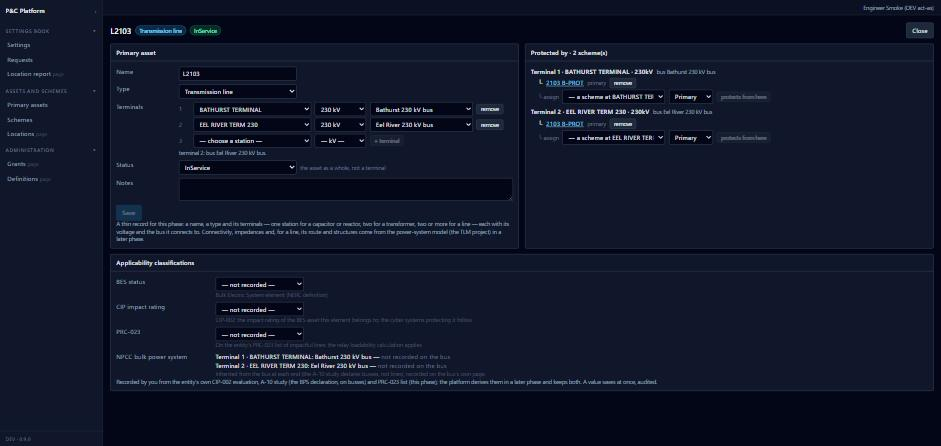
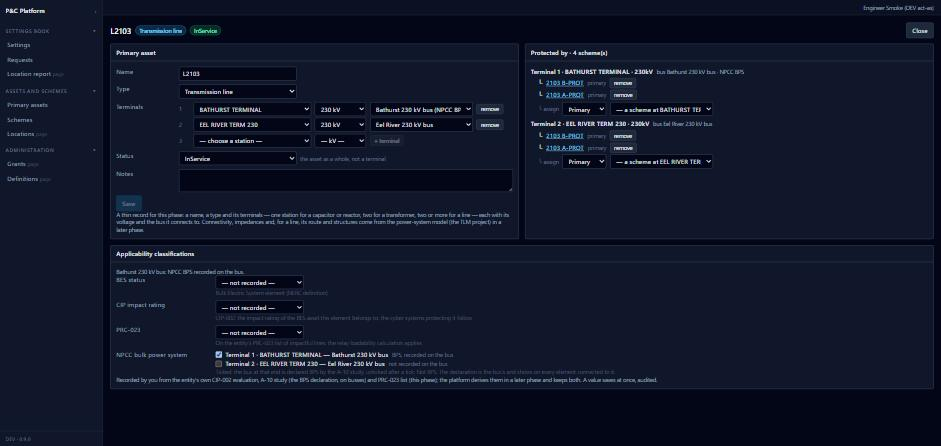
#170: assigning a scheme to a terminal end saves on selection (like every other drop-down); NPCC BPS is a check box per terminal that records on the bus at that end
Owner, 2026-09-16: a second scheme chosen under a terminal did not appear to take — the row needed a button the other
controls do not; gone. The NPCC row of the classification panel is a check box per terminal, ticked = the bus at that end
is declared BPS (recorded on the bus, shown on every element connected to it).

Claude-Session: https://claude.ai/code/session_013TsNC7gxoDauT1p8dURK81

diff --git a/src/PnC.Web/src/screens/PrimaryAssetScreen.tsx b/src/PnC.Web/src/screens/PrimaryAssetScreen.tsx
@@ -40,6 +40,12 @@ export function ClassificationPanel({ subjectKind, subjectEntityId, editable, as
   const [msg, setMsg] = useState<{ text: string; bad?: boolean } | null>(null)
   const current = (code: string) => rows.find((r) => s(r.ClassificationKindCode) === code)
   const kinds = CLASSIFICATION_KINDS.filter((k) => !k.busOnly || assetTypeCode === 'Bus' || !assetTypeCode)
+  const recordOnBus = async (busId: string, busName: string, bps: boolean) => {
+    try {
+      await proc('asset', 'RecordClassification', { SubjectKind: 'Asset', SubjectEntityId: busId, ClassificationKindCode: 'NpccBulkPowerSystem', ClassificationValue: bps ? 'BPS' : 'Not BPS' })
+      setMsg({ text: `${busName}: NPCC ${bps ? 'BPS' : 'Not BPS'} recorded on the bus.` }); qc.invalidateQueries({ queryKey: ['view', 'asset', 'vAssetTerminalDetail'] }); qc.invalidateQueries({ queryKey: ['view', 'asset', 'vClassification'] }); qc.invalidateQueries({ queryKey: ['view', 'asset', 'vPrimaryAsset'] })
+    } catch (e) { setMsg({ text: e instanceof ApiError ? e.message : String(e), bad: true }) }
+  }
   const record = async (code: string, value: string) => {
     try {
       await proc('asset', 'RecordClassification', { SubjectKind: subjectKind, SubjectEntityId: subjectEntityId, ClassificationKindCode: code, ClassificationValue: value || null })
@@ -69,8 +75,14 @@ export function ClassificationPanel({ subjectKind, subjectEntityId, editable, as
           <div className="grid grid-cols-[13rem_1fr] items-start gap-2">
             <dt className="text-slate-400" title="The A-10 test is a bus test: the BPS declaration is the bus's; this element inherits it at each terminal">NPCC bulk power system</dt>
             <dd className="min-w-0 text-slate-200">
-              {(terminalsQ.data ?? []).length ? (terminalsQ.data ?? []).map((t) => <div key={s(t.TerminalEntityId)}>Terminal {s(t.TerminalNo)} · {s(t.StationName)}: {t.BusAssetEntityId ? <>{s(t.BusName)} — <span className={t.BusNpcc ? 'text-slate-100' : 'text-slate-500'}>{s(t.BusNpcc) || 'not recorded on the bus'}</span></> : <span className="text-slate-500">no bus linked at this terminal</span>}</div>) : <span className="text-slate-500">no terminals yet</span>}
-              <div className="text-xs text-slate-600">Inherited from the bus at each end (the A-10 study declares busses, not lines); recorded on the bus's own page.</div>
+              {/* a check box per terminal (the owner, 2026-09-16): ticked = the bus at that end is declared BPS; it records on the bus itself */}
+              {(terminalsQ.data ?? []).length ? (terminalsQ.data ?? []).map((t) => (
+                <label key={s(t.TerminalEntityId)} className={`flex items-center gap-2 ${t.BusAssetEntityId ? '' : 'text-slate-500'}`} title={t.BusAssetEntityId ? `recorded on ${s(t.BusName)}` : 'link a bus to this terminal first'}>
+                  <input type="checkbox" disabled={!editable || !t.BusAssetEntityId} checked={s(t.BusNpcc) === 'BPS'} onChange={(e) => void recordOnBus(s(t.BusAssetEntityId), s(t.BusName), e.target.checked)} />
+                  <span>Terminal {s(t.TerminalNo)} · {s(t.StationName)}{t.BusAssetEntityId ? ` — ${s(t.BusName)}` : ' — no bus linked'}</span>
+                  <span className="text-xs text-slate-500">{t.BusAssetEntityId ? (s(t.BusNpcc) ? `${s(t.BusNpcc)}, recorded on the bus` : 'not recorded on the bus') : ''}</span>
+                </label>)) : <span className="text-slate-500">no terminals yet</span>}
+              <div className="text-xs text-slate-600">Ticked: the bus at that end is declared BPS by the A-10 study; unticked after a tick: Not BPS. The declaration is the bus's and shows on every element connected to it.</div>
             </dd>
           </div>)}
       </dl>
@@ -215,9 +227,9 @@ function AssignRow({ t, pick, zone, busy, exclude, onPick, onZone, onAssign }: {
   return (
     <div className="flex flex-wrap items-center gap-2 text-xs">
       <span className="text-slate-500">└ assign</span>
-      <select className={`${inputClass} w-56`} value={pick} disabled={busy} onChange={(e) => onPick(e.target.value)}><option value="">— a scheme at {s(t.StationName)} —</option>{options.map((x) => <option key={s(x.SchemeEntityId)} value={s(x.SchemeEntityId)}>{s(x.SchemeName)}</option>)}</select>
-      <select className={`${inputClass} w-24`} value={zone} disabled={busy} onChange={(e) => onZone(e.target.value)}>{ZONES.map((z) => <option key={z}>{z}</option>)}</select>
-      <Button kind="mini" disabled={!pick || busy} onClick={() => onAssign(pick, s(options.find((x) => s(x.SchemeEntityId) === pick)?.SchemeName), zone)}>protects from here</Button>
+      <select className={`${inputClass} w-24`} value={zone} disabled={busy} title="the zone of the scheme you are about to assign" onChange={(e) => onZone(e.target.value)}>{ZONES.map((z) => <option key={z}>{z}</option>)}</select>
+      {/* choosing a scheme assigns it at once — like every other drop-down on this page (the owner picked one and waited, 2026-09-16) */}
+      <select className={`${inputClass} w-56`} value={pick} disabled={busy} onChange={(e) => { const v = e.target.value; onPick(v); if (v) onAssign(v, s(options.find((x) => s(x.SchemeEntityId) === v)?.SchemeName), zone) }}><option value="">— a scheme at {s(t.StationName)}: choose to assign —</option>{options.map((x) => <option key={s(x.SchemeEntityId)} value={s(x.SchemeEntityId)}>{s(x.SchemeName)}</option>)}</select>
     </div>
   )
 }
